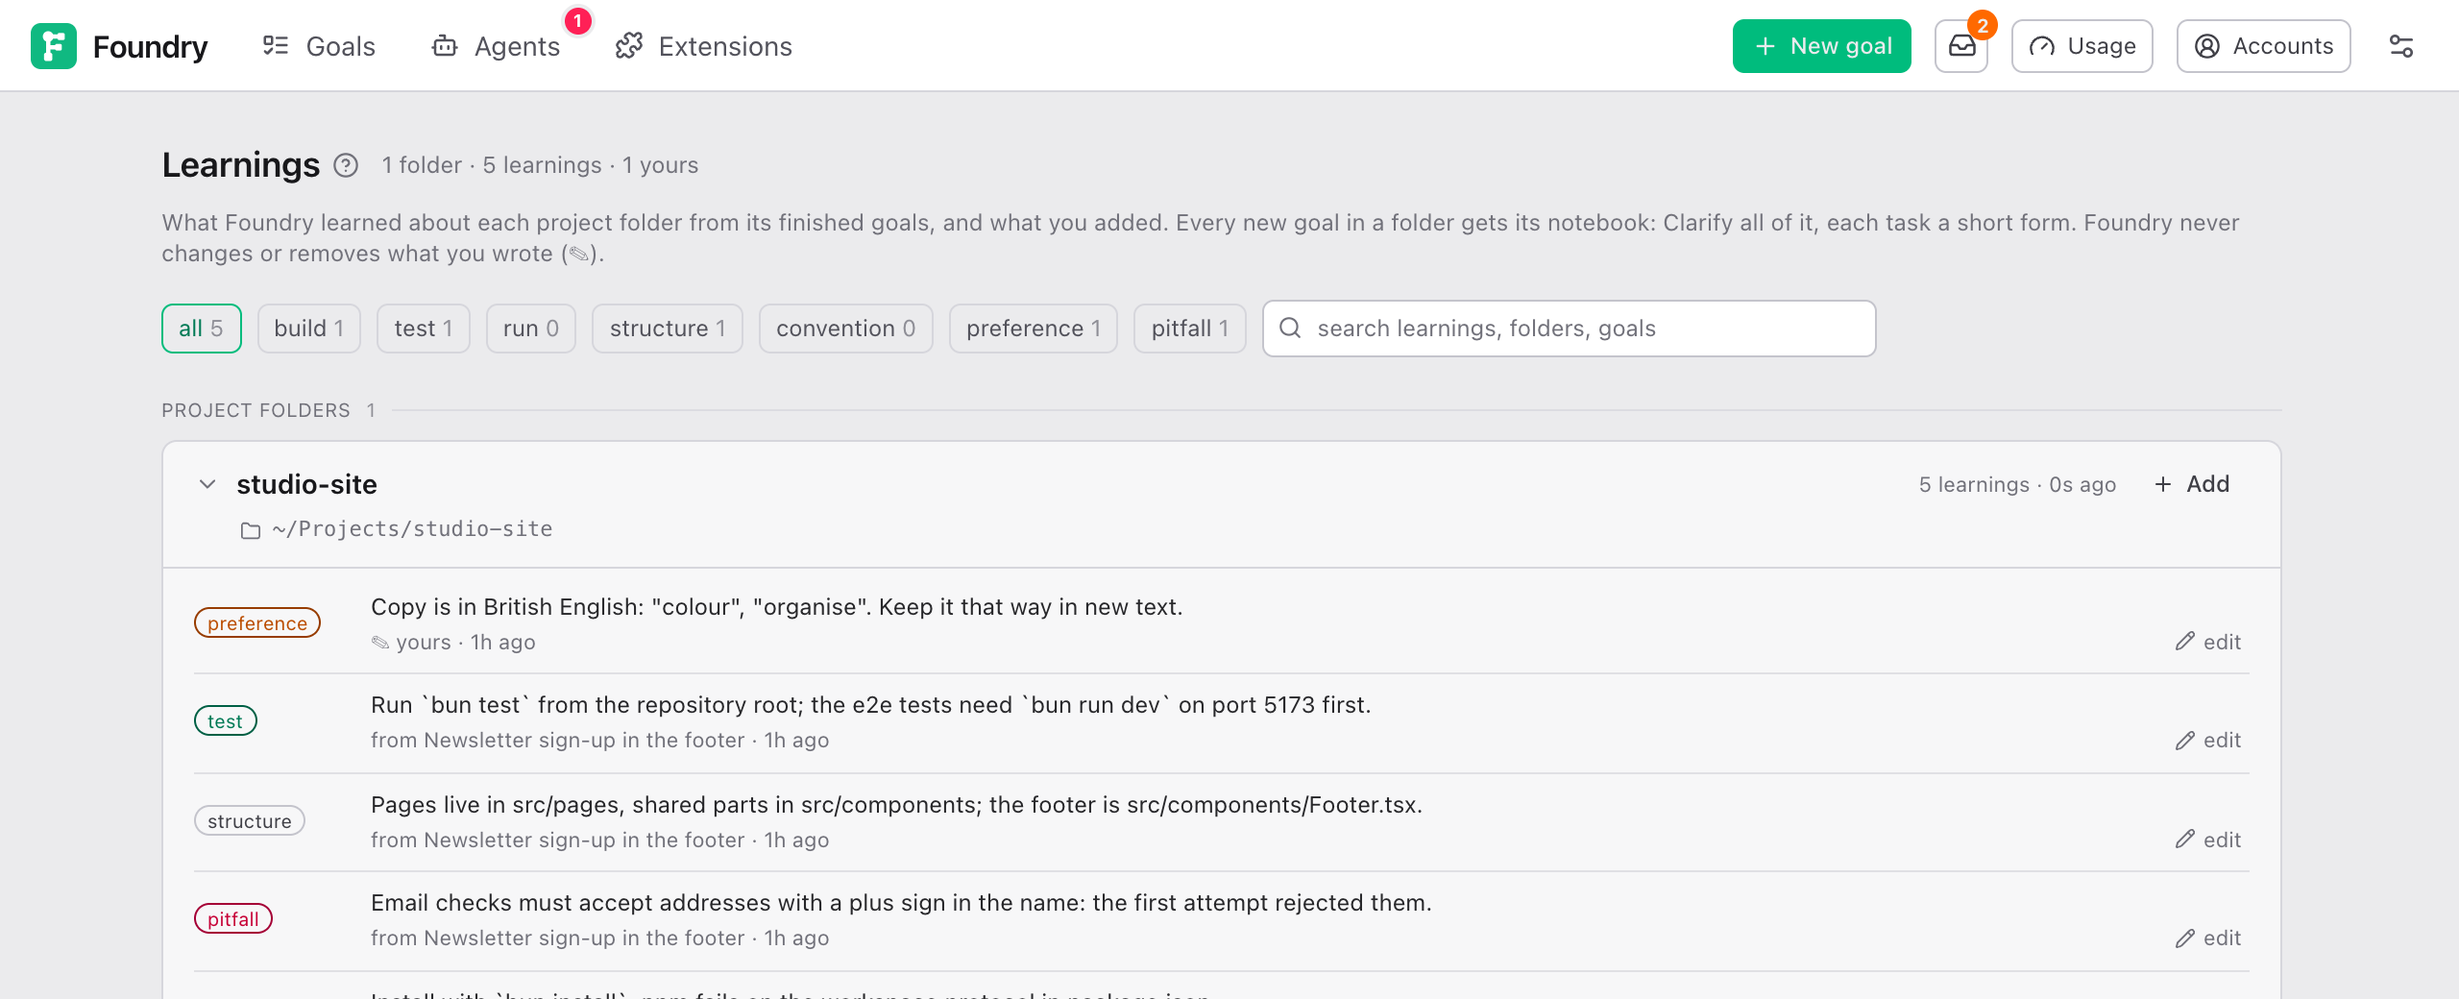
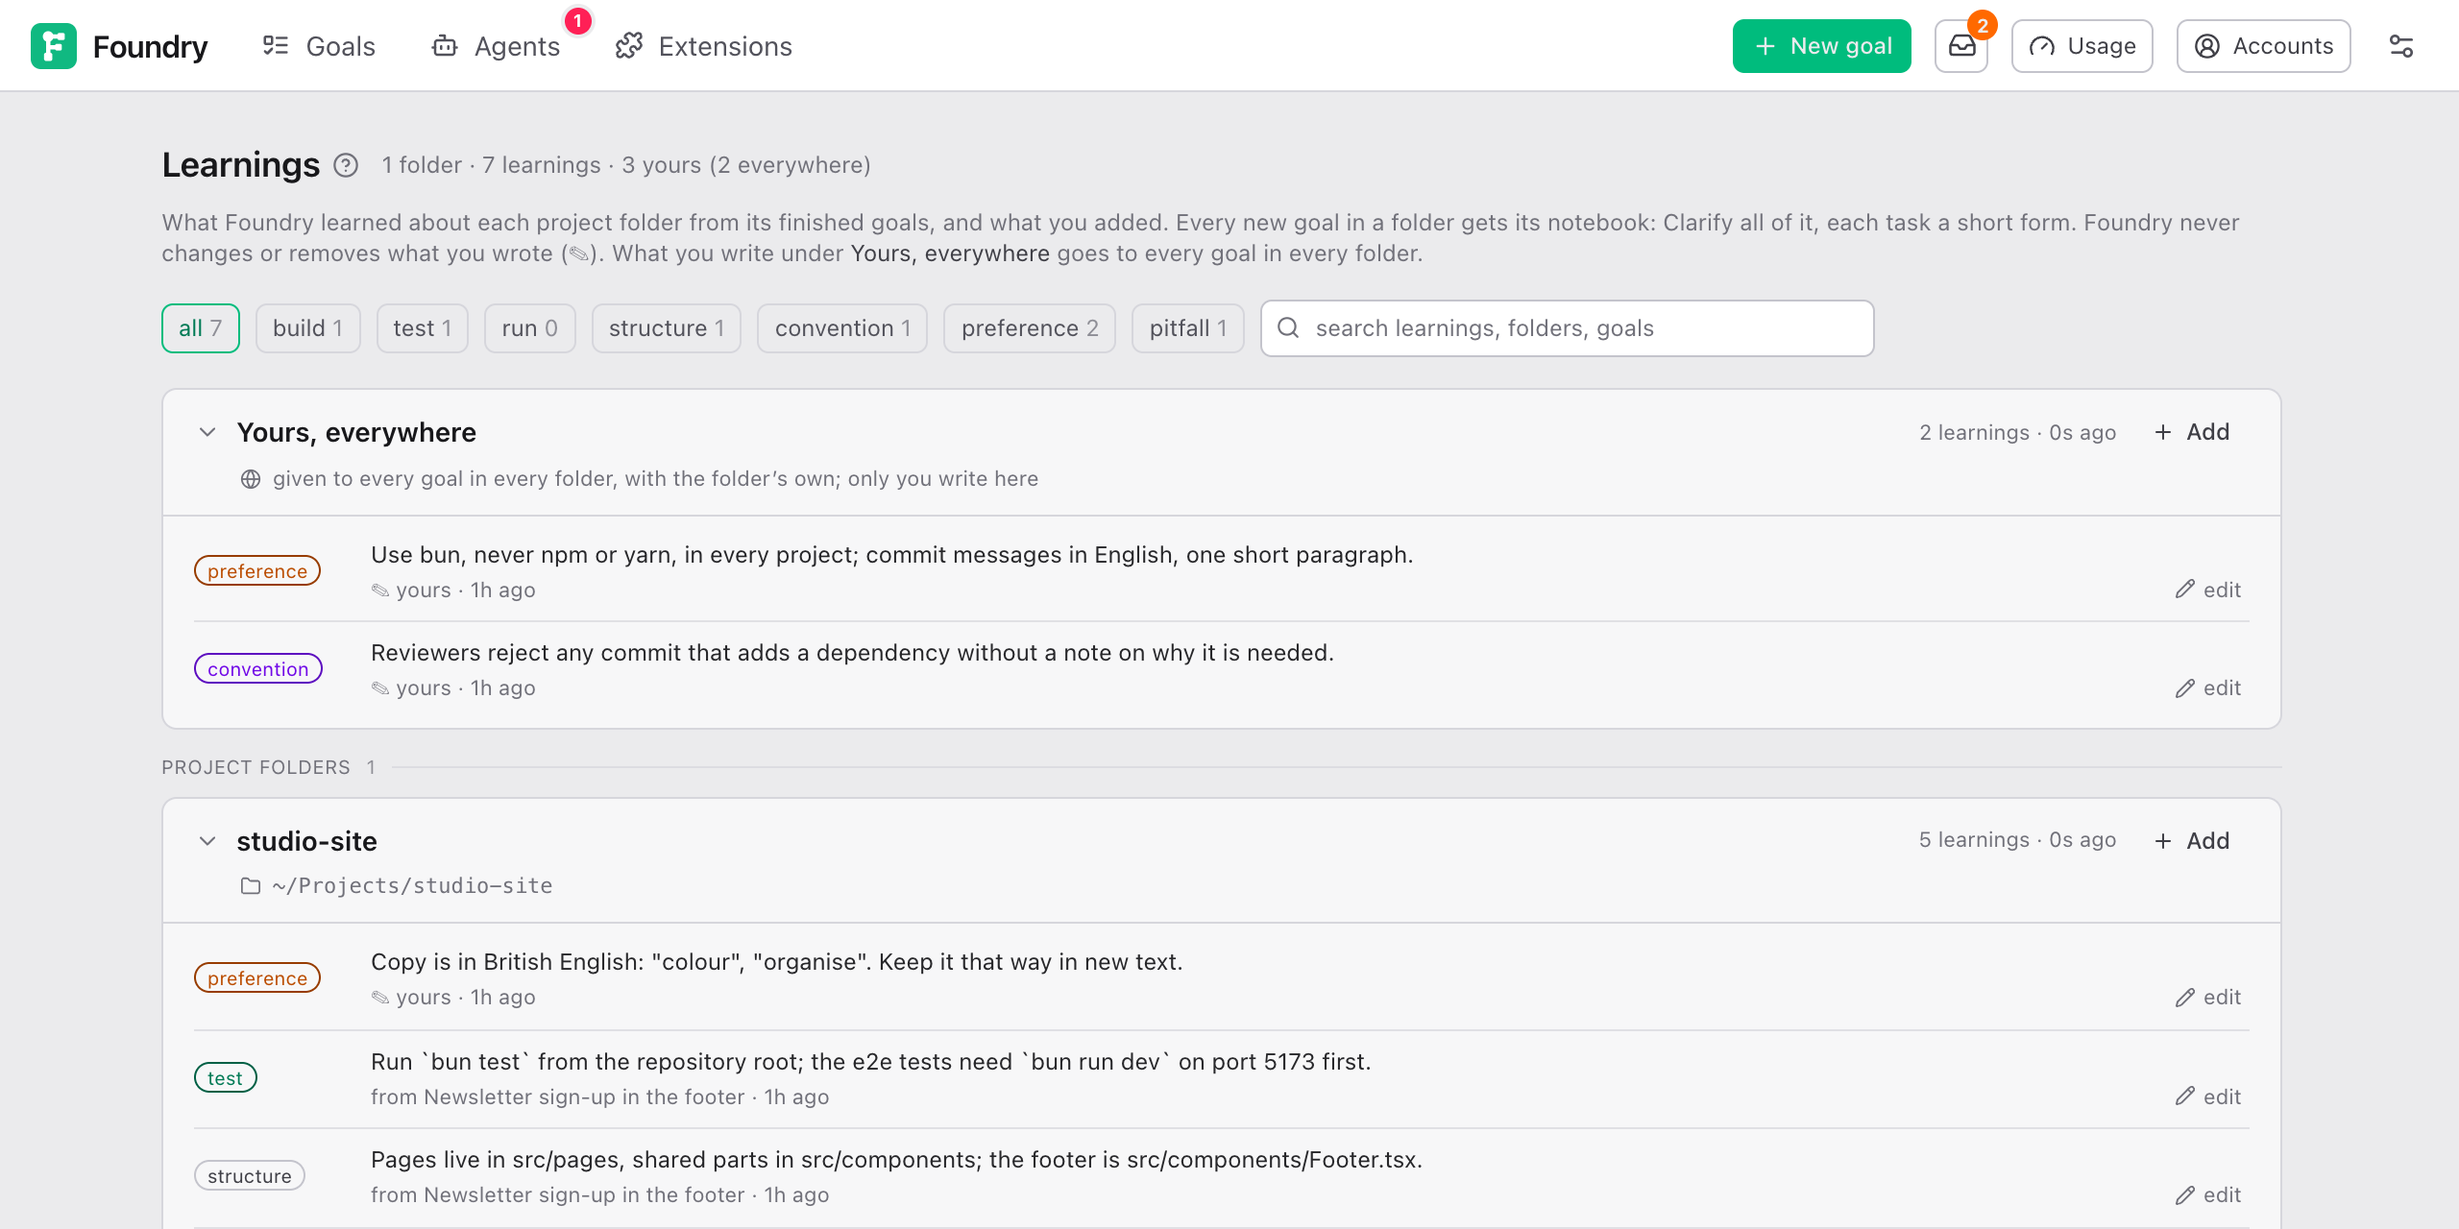
docs: the everywhere notebook (ADR-0055)
The Learnings page of the guide gains Yours, everywhere (English and 中文)
and its screenshot shows the card; the glossary's Learnings entry and the
guide's word list say the notebook follows the person; ADR-0055 records the
decision.

diff --git a/scripts/screenshots.ts b/scripts/screenshots.ts
@@ -236,7 +236,9 @@ try {
       note: null,
     },
   });
-  await shot('learnings', '/learnings', undefined, 520);
+  // the person's everywhere notebook (ADR-0055): the first card on the page
+  demo.engine.store.append({ type: 'learnings.set', goalId: null, payload: { repoPath: '*', learnings: [{ id: 'lrn_ev1', kind: 'preference', text: 'Use bun, never npm or yarn, in every project; commit messages in English, one short paragraph.', by: 'human', goalId: null, goalTitle: null, at: ago(90) }, { id: 'lrn_ev2', kind: 'convention', text: 'Reviewers reject any commit that adds a dependency without a note on why it is needed.', by: 'human', goalId: null, goalTitle: null, at: ago(90) }], source: 'human', goalId: null, note: null } });
+  await shot('learnings', '/learnings', undefined, 640);
   // Schedules (ADR-0054): one saved from the New goal form, with a run behind it
   demo.engine.saveSchedule({
     name: 'Weekly dependency upgrade',

diff --git a/CONTEXT.md b/CONTEXT.md
@@ -35,7 +35,7 @@ The New goal form saved with a cadence (every day, one weekday a week, or one da
 _Avoid_: cron job, recurring goal (the Goal is not recurring, the Schedule is), template
 
 **Learnings**
-What Foundry knows about a repository from the Goals that ran in its folder, plus what the user added: the commands it needs, where things live, its conventions, what the user prefers, what goes wrong and how to get past it. Kept per project folder, at most 30 entries of 300 characters. When a Goal ends done, over-delivered or failed, one session on its housekeeping model reads how it went (its Brief and Decisions, its Escalations and their answers, the hints, the failed Attempts' Observation Reports, the warnings, the final review) beside the folder's notebook and returns the notebook after it; the user's own entries are never changed or dropped. The session is a retrospective: with the `retro` Workflow Skill installed (Claude) it opens with it, its categories — navigation, automated checks, coding standards, agent instructions, tool economy, no-ops, information access — are its lens, and it may read the Goal's transcripts. Clarify is given all of a folder's Learnings, every Attempt a short form. Unlike a Follow-up, which carries one earlier Goal's background, Learnings carry what every earlier Goal in the folder taught. They stay on the computer: a Transfer does not move them. Each folder's Learnings are also written into the repository as a project skill (`foundry-learnings`, kept out of git) for the person's own sessions there; a Goal on the pstack suite reflects with pstack's reflect lenses as text instead of opening with the retro Skill.
+What Foundry knows about a repository from the Goals that ran in its folder, plus what the user added: the commands it needs, where things live, its conventions, what the user prefers, what goes wrong and how to get past it. Kept per project folder, at most 30 entries of 300 characters. When a Goal ends done, over-delivered or failed, one session on its housekeeping model reads how it went (its Brief and Decisions, its Escalations and their answers, the hints, the failed Attempts' Observation Reports, the warnings, the final review) beside the folder's notebook and returns the notebook after it; the user's own entries are never changed or dropped. The session is a retrospective: with the `retro` Workflow Skill installed (Claude) it opens with it, its categories — navigation, automated checks, coding standards, agent instructions, tool economy, no-ops, information access — are its lens, and it may read the Goal's transcripts. Clarify is given all of a folder's Learnings, every Attempt a short form. Unlike a Follow-up, which carries one earlier Goal's background, Learnings carry what every earlier Goal in the folder taught. They stay on the computer: a Transfer does not move them. Each folder's Learnings are also written into the repository as a project skill (`foundry-learnings`, kept out of git) for the person's own sessions there; a Goal on the pstack suite reflects with pstack's reflect lenses as text instead of opening with the retro Skill. A notebook of the user's own, kept apart from the folders' (the everywhere notebook), follows them into every folder: every Goal is given it with the folder's Learnings and every folder's exported skill carries it; only the user writes in it.
 _Avoid_: memory, knowledge base (the Context Provider decides what code is relevant; Learnings are what was learned by doing)
 **Deploy**
 Putting a finished Goal's web app online on a host — Vercel, Netlify or Cloudflare Pages — when the user asks, from the Goal's Delivery tab: a preview address unless they ask for production. Only a web page or an all-in-one web app is deployed: a folder of pages, a site or single-page app a build turns into files, or a full-stack web framework the host runs. A worker, a backend deployed apart from its pages, a custom server or several web apps in one repository are not, and the reason is shown. The engine runs the host's CLI in a checkout of the Goal's commit of its own, after showing the exact commands, with the host's token from Settings, which no coding session ever gets; nothing is pushed to the repository. Distinct from Delivery, which moves the Goal branch into the repository's history (push, pull request, merge).

diff --git a/docs/guide/learnings.md b/docs/guide/learnings.md
@@ -10,7 +10,7 @@ Every goal teaches Foundry something about your project: the command the tests n
 
 - **When a goal ends** (done, over-delivered or failed), a short session on the goal's housekeeping model reads how it went: what you asked and decided, where it stopped for you and what you answered, the hints you gave, the attempts that failed and what they ran into, the warnings and the final review. It adds what is worth keeping about the project, merges repeats and drops what turned out wrong. A cancelled goal teaches nothing. With the `retro` skill installed (Claude), the session runs as a retrospective: it may read the goal's session transcripts, and it looks for what the next goal would have wanted — a pointer to the right file, a check that would have caught a mistake, a rule for the reviewer, an instruction that changed nothing.
 - **On the pstack suite** the session takes pstack's `reflect` as its method — its judgment, tooling and divergent lenses, and what structure would enforce better than a note — in one session, editing no skill.
-- **From you.** What you add or change is yours (✎). Foundry never changes or removes it.
+- **From you.** What you add or change is yours (✎). Foundry never changes or removes it. What you want in every project goes under **Yours, everywhere** (below).
 
 The goal's **Activity** says what changed, for example *Learnings for this folder: +2 — added how the e2e tests start*. The session costs a few cents, counted in the goal's cost.
 
@@ -21,6 +21,10 @@ The goal's **Activity** says what changed, for example *Learnings for this folde
 - They are a starting point, not a rule: where the code says otherwise, the code wins.
 
 A folder keeps at most 30 learnings, of at most 300 characters each.
+
+## Yours, everywhere
+
+Some of what you want is not about one project: the package manager you use, the language of your comments and commit messages, a rule every reviewer should hold, a thing you never want done. The first card on the Learnings page, **Yours, everywhere**, is a notebook for that. Only you write in it, and every goal in every folder is given it with the folder's own Learnings: Clarify under a line of its own, each task in the short form, where your entries come first. It is written into every folder's `foundry-learnings` skill too, as a last section, so your own sessions read it. Where a folder's Learnings or the code say otherwise, they win.
 
 ## Shared with your own sessions
 

diff --git a/docs/guide/learnings.zh.md b/docs/guide/learnings.zh.md
@@ -10,7 +10,7 @@
 
 - **goal 结束时**（done、over-delivered 或 failed），一个用 goal 的 housekeeping 模型的短会话会读一遍过程：你要求了什么、决定了什么，它在哪里停下来等你、你怎么回答的，你给的提示，失败的尝试遇到了什么，警告和最终审查。它把值得记住的项目知识加进去，合并重复的，删掉被证明不对的。被取消的 goal 不会留下任何东西。装了 `retro` skill 时（Claude），这个会话会以回顾的方式进行：它可以读 goal 的会话记录，专门找下一个 goal 会需要的东西——指向正确文件的提示、本可以抓住错误的检查、给审查者的规则、没起作用的指令。
 - **在 pstack 套件下**，这个会话以 pstack 的 `reflect` 为方法——它的 judgment、tooling、divergent 三个视角，加上"什么该由结构来保证而不是靠一条笔记"——在一个会话里完成，不改任何技能。
-- **来自你。** 你加的或改过的条目就是你的（✎）。Foundry 从不修改或删除它们。
+- **来自你。** 你加的或改过的条目就是你的（✎）。Foundry 从不修改或删除它们。你在每个项目里都想要的东西，写在 **Yours, everywhere** 下面（见下文）。
 
 goal 的 **Activity** 会写明改了什么，例如 *Learnings for this folder: +2 — added how the e2e tests start*。这个会话花几美分，计入 goal 的费用。
 
@@ -21,6 +21,10 @@ goal 的 **Activity** 会写明改了什么，例如 *Learnings for this folder:
 - 它们是起点，不是规定：代码说的不一样时，以代码为准。
 
 一个文件夹最多保留 30 条，每条最多 300 个字符。
+
+## Yours, everywhere
+
+有些你想要的东西不属于某一个项目：你用的包管理器、注释和提交信息的语言、每个审查者都该守的规矩、你永远不想要的做法。Learnings 页面的第一张卡片 **Yours, everywhere** 就是记这些的本子。只有你往里写，每个文件夹里的每个 goal 都会连同文件夹自己的 Learnings 一起拿到它：Clarify 在单独的一行下面看到，每个任务在简短版里看到，你写的排在最前面。它也会写进每个文件夹的 `foundry-learnings` skill，作为最后一节，这样你自己的会话也能读到。文件夹自己的 Learnings 或代码说的不一样时，以它们为准。
 
 ## 分享给你自己的会话
 

diff --git a/docs/develop/adr/0055-learnings-everywhere.md b/docs/develop/adr/0055-learnings-everywhere.md
@@ -1,0 +1,31 @@
+# ADR-0055: A notebook of the person's own that follows them into every folder
+
+**Status:** accepted · 2026-10-21 · builds on ADR-0040 and ADR-0050
+
+## Context
+
+Learnings (ADR-0040) are kept per project folder: what Foundry's goals learned there, plus what the person added for
+that folder. Some of what a person wants is not about a folder at all: the package manager they use, the language
+their comments and commit messages are in, a rule every reviewer should hold, a thing they never want done. Until
+now they wrote it into each folder's notebook, once per folder, or into the goal's description, once per goal, or
+not at all and corrected the result.
+
+## Decision
+
+- **One more notebook, the person's, for every folder.** It is kept beside the folders' under a reserved key (`*`),
+  with the same shape and limits (at most 30 entries of 300 characters); only the person writes to it, from the
+  Learnings page (**Yours, everywhere**). Foundry's learning sessions never read it as a folder's notebook, so an
+  entry is never copied into a folder, merged or dropped.
+- **Every goal is given it with its folder's notebook**: Clarify under a line of its own ("what the person wants in
+  every project"), every attempt in the short form, where the person's entries already come first.
+- **Every folder's exported skill carries it** (ADR-0050), as a last section, "What the person wants in every
+  project"; a folder with no notebook of its own gets the skill for the everywhere entries alone, and a change of the
+  everywhere notebook rewrites the skill of every folder that has one.
+- Like the folders' notebooks it stays on this computer; a Transfer carries none.
+
+## Consequences
+
+- A wish that is wrong for one folder is overridden there by the folder's own entry or by the code, as the prompt
+  already says: the code wins. The person can also say it in the folder's notebook.
+- The everywhere notebook is a folder in the read model and in the API (`repo=*`); the Learnings page keeps it apart
+  and never lists it as a folder.

diff --git a/docs/guide/README.zh.md b/docs/guide/README.zh.md
@@ -35,7 +35,7 @@ Foundry 读你的项目，问你只有你能决定的事，然后写一份叫 **
 | **Task**（任务） | 计划里的一项工作。一个 goal 通常有几个。 |
 | **Milestone**（里程碑） | 一个看得见、可以试的功能，设在完成它的那个任务上。功能完成时 Foundry 会录下它的样子，最终走查时再录一次。 |
 | **Inbox** | 等你处理的事项列表：**New goal** 旁边的托盘图标，上面会显示数字。 |
-| **Learnings** | Foundry 从一个项目文件夹里结束了的 goal 学到的东西，加上你自己添加的。这个文件夹之后的每个 goal 都会拿到。见 [Learnings](./learnings.zh.md)。 |
+| **Learnings** | Foundry 从一个项目文件夹里结束了的 goal 学到的东西，加上你自己添加的。这个文件夹之后的每个 goal 都会拿到，连同你在 **Yours, everywhere** 下为所有文件夹写的东西。见 [Learnings](./learnings.zh.md)。 |
 | **Schedule** | 存下来并加了时间的 New goal 表单：每天、每周或每月，Foundry 用它生成一个 goal 并自己跑完。见 [Schedules](./schedules.zh.md)。 |
 | **Progress folder**（进度文件夹） | 实际干活的文件夹，就在你的项目旁边：`<project>-foundry/<goal>/`，或者在 Settings 里设的文件夹下面。它以 goal 的标题（到第一个标点为止，最多 40 个字符）加上 goal id 的最后 6 个字符命名。你随时都能打开。 |
 | **Model preset**（模型预设） | 哪个模型负责规划、任务和审查。两种编码智能体各有独立的 Max、Production、Balanced 和 Economy 预设；Codex 还保存各角色的推理强度。 |

diff --git a/docs/guide/README.md b/docs/guide/README.md
@@ -35,7 +35,7 @@ Between steps 3 and 7 Foundry only stops for a short list of reasons. They are a
 | **Task** | One piece of work in the plan. A goal usually has a handful. |
 | **Milestone** | A feature you can see or try, on the task that finishes it. Foundry records what it shows when it lands, and again in the final walkthrough. |
 | **Inbox** | The list of things waiting for you: the tray icon next to **New goal**, with a number on it. |
-| **Learnings** | What Foundry learned about a project folder from its finished goals, plus what you added. Every later goal in that folder is given it. See [Learnings](./learnings.md). |
+| **Learnings** | What Foundry learned about a project folder from its finished goals, plus what you added. Every later goal in that folder is given it, with what you wrote under **Yours, everywhere** for every folder. See [Learnings](./learnings.md). |
 | **Schedule** | The New goal form saved with a time: every day, week or month Foundry makes a goal from it and runs it by itself. See [Schedules](./schedules.md). |
 | **Progress folder** | The folder where the work happens, next to your project: `<project>-foundry/<goal>/`, or under the folder set in Settings. It is named after the goal's title (up to its first punctuation mark, at most 40 characters) plus the last 6 characters of the goal's id. You can open it at any time. |
 | **Model preset** | Which model does each job (planning, tasks, reviews). Each coding agent has its own Max, Production, Balanced and Economy presets. Codex also captures each role’s reasoning effort. |

diff --git a/docs/develop/adr/README.md b/docs/develop/adr/README.md
@@ -59,3 +59,4 @@ record is never rewritten when a later decision changes it; its status says what
 | [0052](0052-goal-from-an-issue.md) | A goal from a GitHub issue: read once through gh, its thread an attachment, its pull request closes it with `Closes #n`; Foundry writes nothing to the issue | accepted · 2026-10-20 · builds on ADR-0003 |
 | [0053](0053-review-comments-addressed-by-the-delivery.md) | Review comments on a pull request (inline, or a request for changes) are addressed by a run of the delivery: a bounded fix task on the branch, pushed, a reply under each; capped by `fixReviewCycles`, more on the person's click | accepted · 2026-10-21 · builds on ADR-0003 and ADR-0052 |
 | [0054](0054-schedules.md) | Schedules: the New goal form saved with a cadence, fired by the engine one run at a time, its Brief approved by the engine when the person said so; this computer's, like the Learnings | accepted · 2026-10-21 · builds on ADR-0013, ADR-0034 and ADR-0040 |
+| [0055](0055-learnings-everywhere.md) | A notebook of the person's own that follows them into every folder: given to every goal with the folder's Learnings, carried by every exported skill, written only by the person | accepted · 2026-10-21 · builds on ADR-0040 and ADR-0050 |
